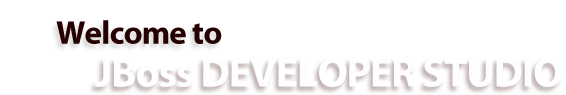
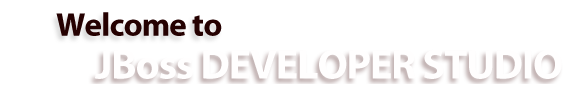
[JBDS-3148] Welcome to JBoss Developer Studio Image is mis-aligned
Fix updats title image and image size in css

Changed region(s): [[0.1502, 0.5684, 0.9912, 0.9684], [0.0901, 0.1263, 0.3905, 0.5053]]

diff --git a/plugins/com.jboss.devstudio.core/themes/jbds/html/root4.css b/plugins/com.jboss.devstudio.core/themes/jbds/html/root4.css
@@ -21,8 +21,8 @@ html>body { overflow: hidden; }
 
 #welcome {
 	background:url(../graphics/root4page/welcome.png) no-repeat;
-	height:97px;
-	width:563px;
+	height:95px;
+	width:566px;
 
 }
 
